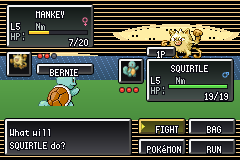
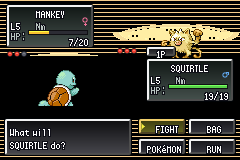
POKESTADIUM themes, battle HUD: the game's own background, no trainer name or portraits
Claude-Session: https://claude.ai/code/session_017dV1kvUKaABKe4L72BYjoF

Changed region(s): [[0.0, 0.2812, 1.0, 0.75], [0.6708, 0.3438, 0.7583, 0.375], [0.7875, 0.3438, 0.8167, 0.375]]

diff --git a/tools/stadium/restyle/battleui.py b/tools/stadium/restyle/battleui.py
@@ -14,8 +14,8 @@ W, H = 240, 160
 
 
 def battle_bg(name='building', pal='palette'):
-    """The game's own battle platforms (4bpp tiles + tilemap + palette) over a plain arena: map.bin holds only the
-    platforms, so sky, crowd and field here are a stand-in, not the game's art."""
+    """The game's own battle platforms (4bpp tiles + tilemap + palette) over the palette's own backdrop colour.
+    map.bin holds the platforms only; nothing here is invented scenery."""
     tiles = np.array(Image.open(f'{REPO}/graphics/battle_environment/{name}/tiles.png'))
     cols = tiles.shape[1] // 8
     pl = [l.split() for l in open(f'{REPO}/graphics/battle_environment/{name}/{pal}.pal').read().splitlines()[3:]]
@@ -34,13 +34,7 @@ def battle_bg(name='building', pal='palette'):
                 blk = blk[::-1]
             rgb[ty * 8:ty * 8 + 8, tx * 8:tx * 8 + 8] = colors[pr * 16 + blk]
             alpha[ty * 8:ty * 8 + 8, tx * 8:tx * 8 + 8] = (blk != 0)
-    yy = np.arange(H)[:, None] * np.ones((1, W))
-    sky = ramp(np.clip(yy / 70, 0, 1), [(0, 0x5898d8), (1, 0x90c0e8)])
-    crowd = ramp(np.clip((yy - 54) / 26, 0, 1), [(0, 0x486890), (1, 0x30506c)])
-    field = ramp(np.clip((yy - 80) / 80, 0, 1), [(0, 0x58a048), (1, 0x3c7c34)])
-    back = np.where((yy < 54)[..., None], sky, np.where((yy < 80)[..., None], crowd, field))
-    speck = ((np.arange(W)[None] * 7 + np.arange(H)[:, None] * 13) % 11 == 0) & (yy >= 54) & (yy < 80)
-    back = np.where(speck[..., None], np.clip(back * 1.5, 0, 1), back)
+    back = np.broadcast_to(colors[0], (H, W, 3))
     return back * (1 - alpha[..., None]) + rgb * alpha[..., None]
 
 
@@ -236,24 +230,16 @@ def scene(theme, state):
     bk[np.array(Image.open(f'{REPO}/graphics/pokemon/{MINE["sp"]}/back.png')) == 0, 3] = 0
     b.blit(bk, 26, 56)
     panel = b.s2_panel if theme == 's2' else b.p1_panel
-    # the foe, where the game puts its box: top left, its portrait and team below
+    # the foe and you, where the game puts the boxes: its own side each, the team's dots under them
     box(b, 6, 4, FOE, theme)
-    b.portrait(6, 51, FOE['sp'], theme, 26)
-    b.dots(40, 56, 2, 3, theme)
-    if theme == 's2':
-        b.s2_panel(36, 63, 94, 75)
-    else:
-        b.p1_panel(36, 63, 94, 75, fill=0x107818)
-    b.text(65, 65, 'BERNIE', SMALL, align='c')
-    # yours: bottom right, the 1P tab over it
+    b.dots(10, 54, 2, 3, theme)
     if theme == 's2':
         b.s2_panel(146, 46, 176, 57)
     else:
         b.p1_panel(146, 46, 176, 57, fill=0x5050d8)
     b.text(161, 47, '1P', SMALL, 0xf8f040 if theme == 'p1' else 0xffffff, align='c')
+    b.dots(120, 51, 3, 3, theme)
     box(b, 146, 58, MINE, theme)
-    b.portrait(118, 58, MINE['sp'], theme, 26)
-    b.dots(122, 90, 3, 3, theme)
     if state == 'action':
         panel(4, 118, 132, 156)
         b.text(10, 125, 'What will', SMALL)

diff --git a/docs/POKESTADIUM_2_THEME_HANDOFF.md b/docs/POKESTADIUM_2_THEME_HANDOFF.md
@@ -250,10 +250,14 @@ What each piece becomes (both mock-ups show the action menu and the move list):
 | Action menu | chrome capsules, the chosen one lit gold with a cursor | navy capsules, gold edge on the chosen |
 | Move list | chrome bars: name, type, PP; the chosen one in its type's colour | navy bars, the chosen in its type's colour |
 
-Decisions made while drawing, for the user to confirm:
-- **The boxes stay where the game puts them** (foe top left, yours bottom right). STADIUM 2 has 1P top left, but
-  swapping sides would put each box over the other's POKéMON, and the type icons are placed off the healthbox
-  sprites (COOP_NOTES "Type icons"), so they would have to move too.
+The user's rulings on the first pass (2026-11-12): **keep the boxes where the game puts them** (foe top left, yours
+bottom right; STADIUM 2 has 1P top left, but swapping would put each box over the other's POKéMON, and the type icons
+are placed off the healthbox sprites: COOP_NOTES "Type icons"); **leave the background alone** (no invented scenery -
+the mock-ups show the game's own terrain platforms on the palette's backdrop colour); **no trainer names or pictures**
+(the BERNIE plate and the portrait windows beside each box are gone; the POKéMON portraits can come back if
+"pictures" meant the trainers' only). What is left per side: the box, the team's dots, and the 1P tab.
+
+Still open:
 - **The move diamond with its D-pad arrows does not fit 240x160** next to two boxes: the mock-up keeps STADIUM's bars
   (name, type, PP, the type's colour) as a 2x2 grid where the game already puts its move list.
 - **The condition** reads as STADIUM's two letters (Nm, Ft...) rather than the game's status tag.
